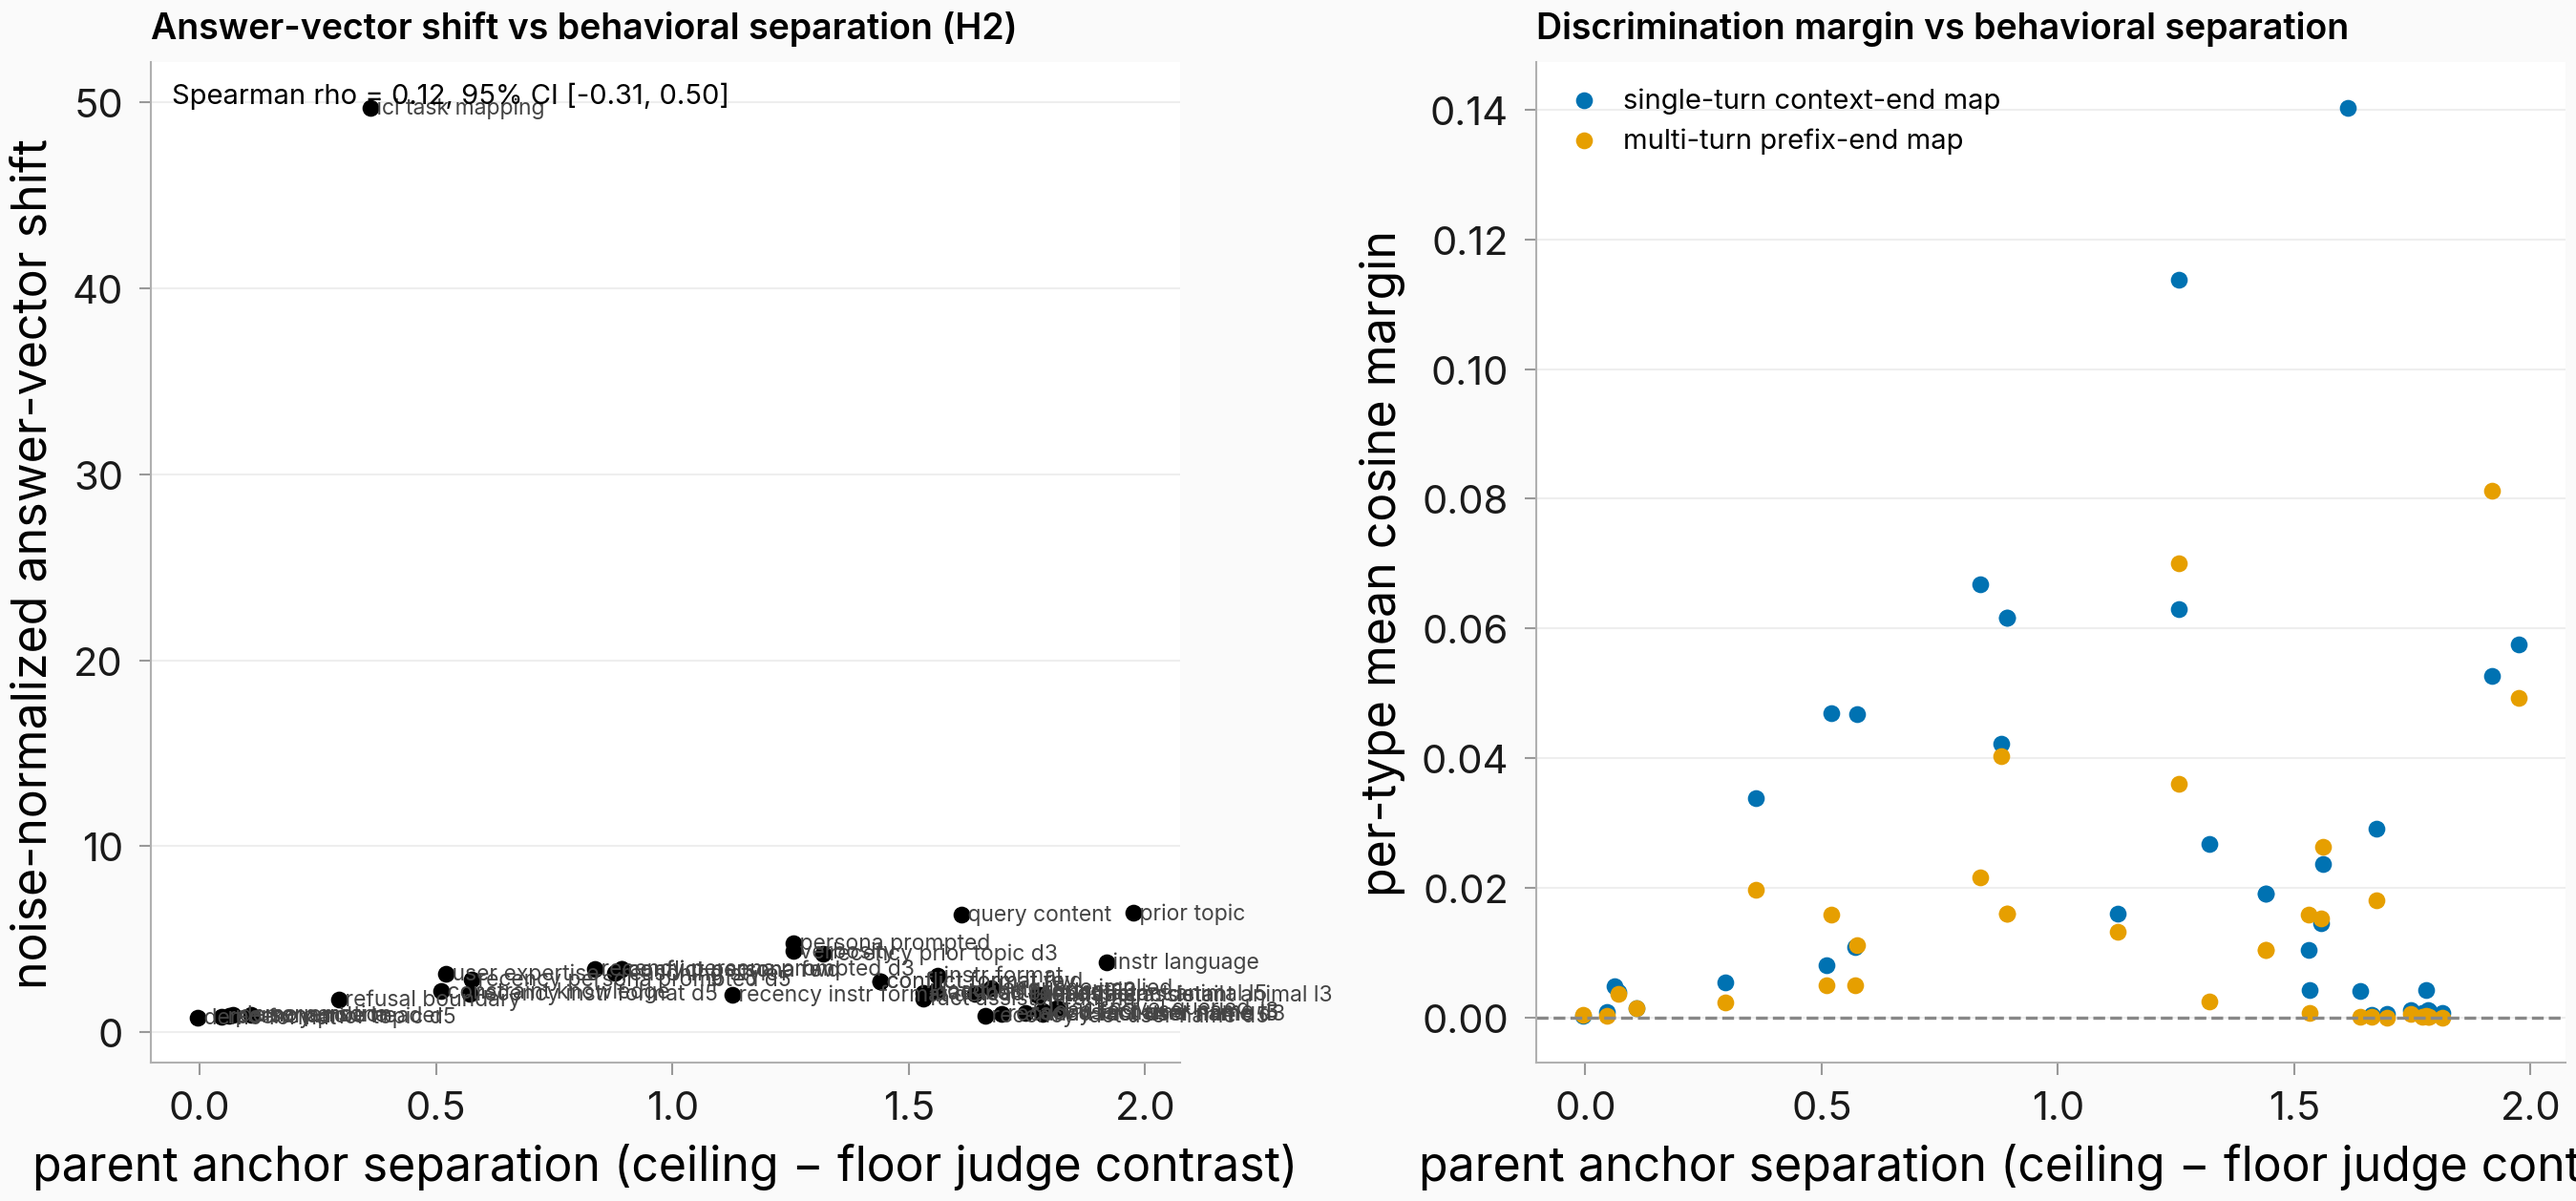
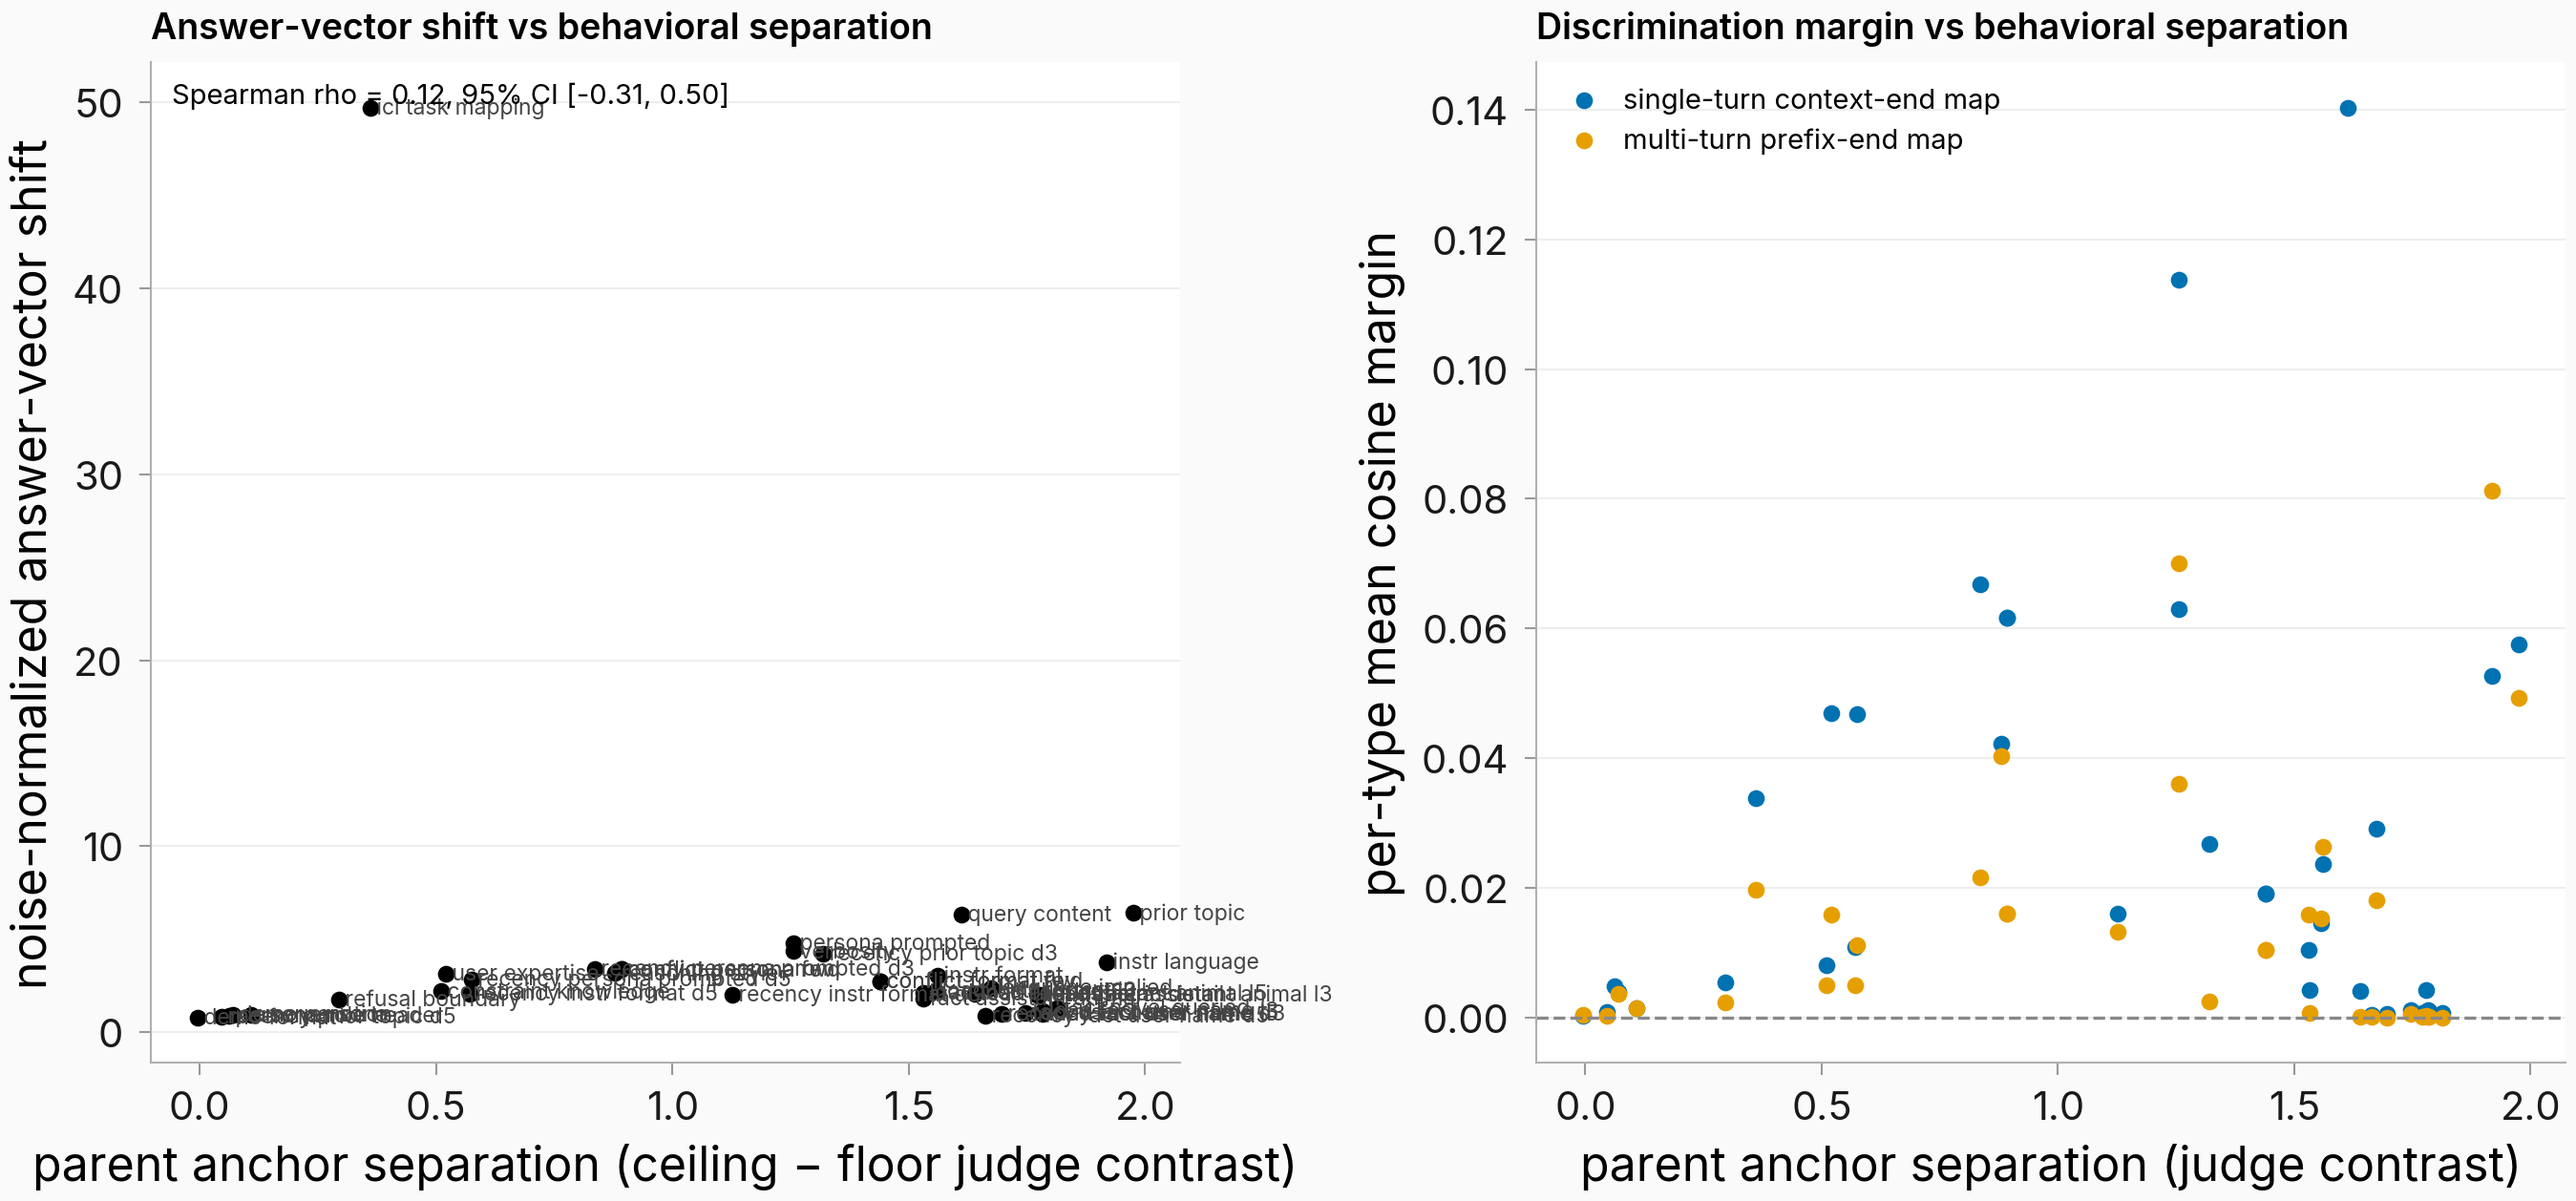
figures: issue #2215 re-render coupling figure (fix clipped right-panel x-label, drop internal title tag)

Changed region(s): [[0.5293, 0.961, 1.0, 0.9921], [0.3736, 0.0, 0.4047, 0.031]]

diff --git a/scripts/issue2215_figures.py b/scripts/issue2215_figures.py
@@ -389,7 +389,7 @@ def fig_h2_shift_vs_separation(res: Results) -> FigResult:
             va="top",
             fontsize=7,
         )
-    ax.set_title("Answer-vector shift vs behavioral separation (H2)", loc="left", fontsize=9)
+    ax.set_title("Answer-vector shift vs behavioral separation", loc="left", fontsize=9)
     if two_panel:
         ax2 = axes[1]
         goal = [a for a in GOAL_ARMS if a in arms_present(res)]
@@ -404,7 +404,9 @@ def fig_h2_shift_vs_separation(res: Results) -> FigResult:
             x2, y2 = zip(*pts)
             ax2.scatter(x2, y2, s=18, color=ARM_COLORS[arm], label=ARM_LABELS[arm], linewidths=0)
         ax2.axhline(0.0, color=REF_COLOR, lw=0.8, ls="--")
-        ax2.set_xlabel("parent anchor separation (ceiling − floor judge contrast)")
+        # Shorter than the left panel's label: the full gloss clips at the
+        # figure's right edge on the second axes (round-2 caption audit).
+        ax2.set_xlabel("parent anchor separation (judge contrast)")
         ax2.set_ylabel("per-type mean cosine margin")
         ax2.set_title("Discrimination margin vs behavioral separation", loc="left", fontsize=9)
         ax2.legend(fontsize=7)
